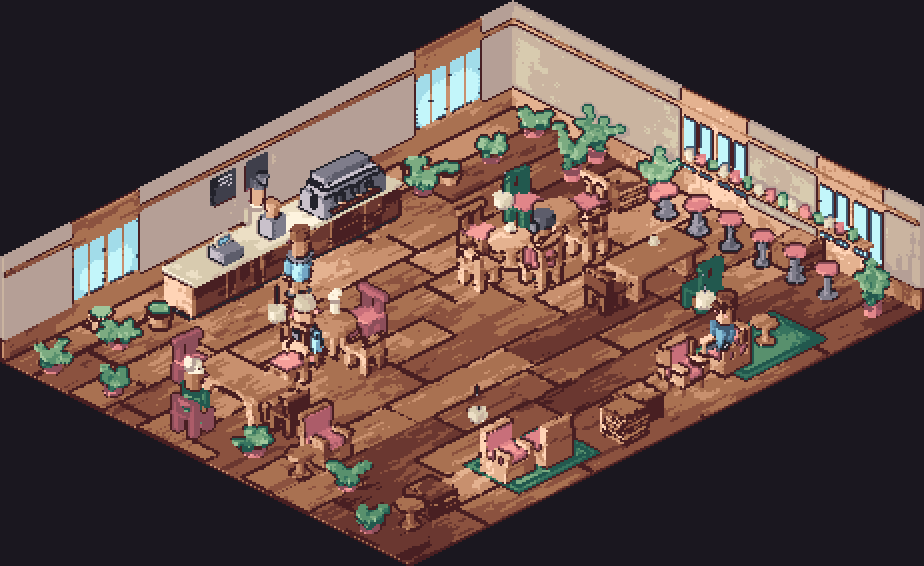
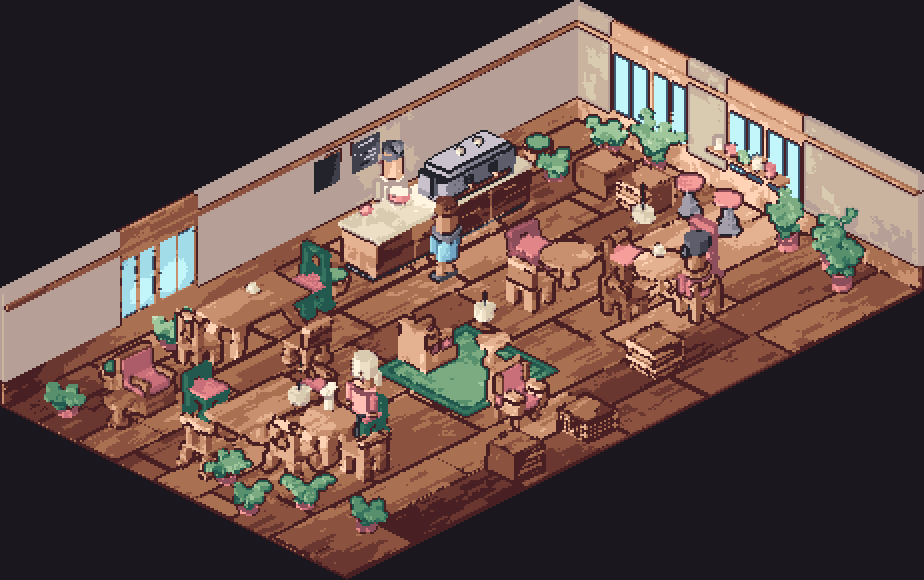
The island, and a range floor that had never fired
THE MEAN-SPREAD FLOOR WAS BLIND. Flagged in the open list as possibly
redundant; testing it meant degrading a generator on purpose. A
bookshelf emitting only N distinct meshes from eight seeds:

  distinct   mean    closest   floor .12  floor .15  pair floor
      1      0.0%     0.0%       fail       fail       fail
      2     10.8%     0.0%       fail       fail       fail
      3     14.1%     0.0%       PASS       fail       fail
      4     16.3%     0.0%       PASS       PASS       fail
      8     18.4%    15.9%       PASS       PASS       PASS

A generator that has lost HALF its range sails through both mean floors
and is caught only by the closest pair, which has been reporting 0.0%
since the second row. At 0.12 the mean did not fire until six of eight
seeds collided. Kept rather than deleted, because it catches the mode
the closest pair cannot see -- every instance differing a little and
none differing much -- but retuned to 0.15, three points under the
weakest real generator, and labelled the secondary instrument it is.

THE ISLAND. The fourth and last counter arrangement, and the only one
left that changes circulation rather than furniture: it touches no wall,
the floor becomes a ring, and every seat must be reachable the long way
round when the short way is blocked. Nothing in the island code tests
that -- `blocking()` selects by kind and the erosion grid does the rest.

It is also the only arrangement that frees every wall for glass. The
[…]

diff --git a/tools/floorplan.py b/tools/floorplan.py
@@ -356,10 +356,80 @@ def generate(seed: int = 1, tries: int = 120) -> Plan:
         # question the flood fill is already equipped to ask and the rectangle
         # comparisons are not.
         peninsula = rnd() < 0.26
+        # An island touches no wall at all. It is the last of the four and the
+        # one that asks the most of the flood fill: the floor becomes a ring,
+        # and every seat has to be reachable the long way round if the short
+        # way is blocked. Nothing here tests that -- `blocking()` selects by
+        # kind and the erosion grid does the rest, the same bargain the L run
+        # made.
+        #
+        # It is also the only arrangement that frees every wall for glass. The
+        # other three pin a counter or a back bar against one, and `_windows`
+        # is handed a blocked span to route around; an island hands it None,
+        # which is not a special case so much as the absence of the constraint
+        # the other three impose. That is a real reason cafes build them.
+        island = not peninsula and rnd() < 0.22
         horizontal = rnd() < 0.62
         zones = []
 
-        if peninsula:
+        if island:
+            span = SERVICE_DEPTH + BACKBAR_DEPTH
+            if horizontal:
+                run_len = min(run_len, w - 2 * ISLAND_CLEAR - 0.4)
+                if run_len < 3.0 or d < 2 * ISLAND_CLEAR + span + QUEUE_DEPTH:
+                    continue
+                # `iy` is bounded by the floor the island has to LEAVE, not
+                # just by the walls it has to clear. Placed anywhere in the
+                # legal band it pushed the main seating rectangle under the
+                # 4.0 x 3.5 minimum and the proposal was thrown away further
+                # down -- 7 island proposals reached the checker in sixty
+                # seeds, and the rest died on a guard the branch could have
+                # satisfied itself. Third time in this generator: the windows,
+                # then the L run's queue, now this.
+                lo = ISLAND_CLEAR + BACKBAR_DEPTH
+                hi = d - 3.3 - MIN_SEAT_RECT_D
+                if hi < lo:
+                    continue        # an island needs floor on both sides
+                ix = ISLAND_CLEAR + rnd() * max(0.1, w - run_len -
+                                                2 * ISLAND_CLEAR)
+                iy = lo + rnd() * (hi - lo)
+                run = Zone("service", ix, iy, ix + run_len,
+                           iy + SERVICE_DEPTH, 0.0)
+                back = Zone("backbar", ix, iy - BACKBAR_DEPTH,
+                            ix + run_len, iy, 0.0)
+                queue = Zone("queue", ix - 0.4, run.y1, ix + run_len + 0.4,
+                             run.y1 + QUEUE_DEPTH, 0.0)
+                main = (0.5, queue.y1 + 0.4, w - 0.5, d - 0.5)
+                side = (0.5, 0.5, w - 0.5, back.y0 - 0.6)
+            else:
+                run_len = min(run_len, d - 2 * ISLAND_CLEAR - 0.4)
+                if run_len < 3.0 or w < 2 * ISLAND_CLEAR + span + QUEUE_DEPTH:
+                    continue
+                lo = ISLAND_CLEAR + BACKBAR_DEPTH
+                hi = w - 3.3 - MIN_SEAT_RECT_W
+                if hi < lo:
+                    continue
+                iy = ISLAND_CLEAR + rnd() * max(0.1, d - run_len -
+                                                2 * ISLAND_CLEAR)
+                ix = lo + rnd() * (hi - lo)
+                run = Zone("service", ix, iy, ix + SERVICE_DEPTH,
+                           iy + run_len, 90.0)
+                back = Zone("backbar", ix - BACKBAR_DEPTH, iy, ix,
+                            iy + run_len, 90.0)
+                queue = Zone("queue", run.x1, iy - 0.4,
+                             run.x1 + QUEUE_DEPTH, iy + run_len + 0.4, 90.0)
+                main = (queue.x1 + 0.4, 0.5, w - 0.5, d - 0.5)
+                side = (0.5, 0.5, back.x0 - 0.6, d - 0.5)
+            # No wall is blocked, so the glass may go anywhere.
+            blocked_x = blocked_y = None
+            door = (w - 0.4, d - 0.4)
+            # NO `zones += [run, back, queue]` here. The shared block below
+            # does it, and the peninsula branch shipped with both -- every
+            # proposal failing its own "a cafe has one service run" rule, 0%
+            # acceptance. Writing the island from the peninsula as a template
+            # reproduced it exactly, which is what a template is for and also
+            # what it costs.
+        elif peninsula:
             run_len = min(run_len, (d if horizontal else w) - 3.2)
             if run_len < 3.0:
                 continue
@@ -425,7 +495,7 @@ def generate(seed: int = 1, tries: int = 120) -> Plan:
         # same terms as everything else. A generator that has to be taught each
         # new obstacle separately is a generator with a list; this one has a
         # rule.
-        if not peninsula and rnd() < 0.30:
+        if not peninsula and not island and rnd() < 0.30:
             arm = 1.4 + rnd() * 1.1
             near = rnd() < 0.5          # which end of the run it turns at
             if horizontal:
@@ -481,7 +551,7 @@ def generate(seed: int = 1, tries: int = 120) -> Plan:
         # and the layout was wrong: a five-tile counter on a fourteen-tile wall
         # leaves nine tiles of window, and that is exactly where a cafe puts
         # its seats.
-        if peninsula:
+        if peninsula or island:
             pass
         elif horizontal:
             # The seating floor starts past the deeper of the queue and the
@@ -498,7 +568,7 @@ def generate(seed: int = 1, tries: int = 120) -> Plan:
             side = (0.5, back.y1 + 0.6, queue.x1 - 0.1, d - 0.5)
             door = (w - 0.4, min(d - 0.5, back.y1 + 1.8))
         sx0, sy0, sx1, sy1 = main
-        if sx1 - sx0 < 4.0 or sy1 - sy0 < 3.5:
+        if sx1 - sx0 < MIN_SEAT_RECT_W or sy1 - sy0 < MIN_SEAT_RECT_D:
             continue
 
         # A window bar: stools along glass, on a stretch the run left free and
@@ -514,7 +584,7 @@ def generate(seed: int = 1, tries: int = 120) -> Plan:
             zones.append(Zone("window_bar", 0.0, max(sy0, t0 + 0.1), 1.5,
                               min(sy1, t1 - 0.1), 270.0))
             sx0 = max(sx0, 1.9)
-        if sx1 - sx0 < 4.0 or sy1 - sy0 < 3.5:
+        if sx1 - sx0 < MIN_SEAT_RECT_W or sy1 - sy0 < MIN_SEAT_RECT_D:
             continue
 
         # Split into blocks small enough to clear MAX_SEAT_BLOCK, with an
@@ -527,6 +597,7 @@ def generate(seed: int = 1, tries: int = 120) -> Plan:
             zones += _seating_blocks(*side, rnd)
 
         plan = Plan(w, d, win_x, win_y, door, zones,
+                    "island" if island else
                     "peninsula" if peninsula else
                     ("L run" if ret is not None else "wall run"))
         bad = check_plan(plan)
@@ -692,6 +763,14 @@ def _windows(span: int, blocked, rnd) -> tuple:
 # whether the generator covers ground, not whether some pair happens to be
 # close. The closest pair over forty seeds is 6% and that is not a defect.
 MIN_PLAN_SPREAD = 0.30
+
+# Floor an island must keep clear of every wall, so a body can pass behind it.
+ISLAND_CLEAR = 1.7
+
+# The smallest seating rectangle the generator will cut blocks from. Named
+# because three places used to spell it 4.0 and 3.5 inline, and the island has
+# to solve for it rather than be rejected by it.
+MIN_SEAT_RECT_W, MIN_SEAT_RECT_D = 4.0, 3.5
 
 
 def plan_labels(plan: Plan, nx: int = 24, ny: int = 18) -> list:

diff --git a/tools/art_review.py b/tools/art_review.py
@@ -372,7 +372,27 @@ def check_member_thickness(mesh, name="asset", ppu=ROOM_PX_PER_UNIT,
 # Every relaxed floor carries the reason it is relaxed, the same role
 # `ACCEPTED_BURIAL` plays for occlusion -- an unexplained loosened threshold is
 # how a ratchet turns back into decoration.
-DEFAULT_SPREAD_FLOOR = 0.12
+# The SECONDARY of the two range floors, and it was blind at 0.12. Degrading a
+# bookshelf to emit only N distinct meshes from eight seeds:
+#
+#     distinct   mean    closest    floor .12   floor .15   pair floor
+#         1      0.0%     0.0%        fail        fail        fail
+#         2     10.8%     0.0%        fail        fail        fail
+#         3     14.1%     0.0%        PASS        fail        fail
+#         4     16.3%     0.0%        PASS        PASS        fail
+#         8     18.4%    15.9%        PASS        PASS        PASS
+#
+# A generator that has lost HALF its range sails through both mean floors and
+# is caught only by the closest pair, which has been reporting 0.0% since the
+# second row. For the realistic failure mode -- a generator repeating itself --
+# the mean is strictly the weaker instrument, and at 0.12 it did not fire until
+# six of eight seeds collided.
+#
+# It is kept rather than deleted because it catches the OTHER mode, which the
+# closest pair cannot see: a generator whose every instance differs a little
+# and none differs much. Retuned to 0.15, three points under the weakest real
+# generator (bookshelf, 18%), so that it is at least able to fire.
+DEFAULT_SPREAD_FLOOR = 0.15
 
 # How different the two most similar instances of one generator must be.
 # Bracketed by measurement, as the cast floor is: the defects it was calibrated

diff --git a/tools/build_plan.py b/tools/build_plan.py
@@ -182,7 +182,12 @@ def build(plan: F.Plan) -> Layout:
     # the only reason nothing complained is that `add_seeded` found the spot
     # empty and took it. A fallback that succeeds is the hardest kind of bug to
     # see.
-    on_wall = plan.topology != "peninsula"
+    # A peninsula meets the wall end-on and an island meets none at all, so
+    # neither has a stretch of wall behind its counter. Written as the set that
+    # DOES hug a wall rather than as a list of exceptions, because the last
+    # time a new topology arrived this line said `!= "peninsula"` and quietly
+    # gave the island two chalkboards on a wall across the room.
+    on_wall = plan.topology in ("wall run", "L run")
     length = run.w if horizontal else run.d
     # What stands on the counter, and how much of the run it eats. Tallied
     # before the back bar goes in rather than after, because the back bar has
@@ -264,7 +269,10 @@ def build(plan: F.Plan) -> Layout:
                 at=at, name=f"counter#ret{ri}_{i}")
 
     # --- back bar: shelving against the wall behind the run
-    back = plan.of("backbar")
+    # Tall shelving only where there is a wall to put it against. A 1.9 stack
+    # standing free on an island is a partition between the barista and the
+    # room, which is the one thing an island exists not to be.
+    back = plan.of("backbar") if on_wall else []
     if back:
         b = back[0]
         # Shelving runs along the back bar's own long axis and sits inside it,

diff --git a/ART_CRITIQUE.md b/ART_CRITIQUE.md
@@ -2015,3 +2015,70 @@ unreliably.**
   bracketed by measurement) but the mean-spread floor of 0.12 is still the
   original guess. It has never rejected anything the closest-pair floor did not
   also reject, which is either redundancy or a floor set too low to fire.
+
+---
+
+# Seventh pass — the island, and a floor that had never fired
+
+## The mean-spread floor was blind
+
+Flagged in the open list as possibly redundant. Testing it properly meant
+degrading a generator on purpose — a bookshelf emitting only *N* distinct
+meshes from eight seeds:
+
+| distinct | mean | closest | floor 0.12 | floor 0.15 | pair floor |
+|---|---|---|---|---|---|
+| 1 | 0.0% | 0.0% | fail | fail | fail |
+| 2 | 10.8% | 0.0% | fail | fail | fail |
+| 3 | 14.1% | 0.0% | **PASS** | fail | fail |
+| 4 | 16.3% | 0.0% | **PASS** | **PASS** | fail |
+| 8 | 18.4% | 15.9% | PASS | PASS | PASS |
+
+A generator that has lost **half its range** sails through both mean floors and
+is caught only by the closest pair, which has been reporting 0.0% since the
+second row. At 0.12 the mean did not fire until six of eight seeds collided.
+
+It is kept rather than deleted, because it catches the mode the closest pair
+cannot see — every instance differing a little and none differing much — but
+retuned to 0.15, three points under the weakest real generator. A secondary
+instrument, labelled as one.
+
+## The island
+
+The fourth and last counter arrangement, and the only one left that changes
+circulation rather than furniture: it touches no wall, the floor becomes a
+ring, and every seat has to be reachable the long way round when the short way
+is blocked. Nothing in the island code tests that — `blocking()` selects by
+kind and the erosion grid does the rest, the same bargain the L run made.
+
+It is also the only arrangement that **frees every wall for glass**. The other
+three pin a counter or a back bar against one and hand `_windows` a blocked
+span to route around; an island hands it `None`. That is not a special case so
+much as the absence of a constraint, and it is a real reason cafes build them.
+
+Two bugs, both of them the same bugs a previous topology had:
+
+- **The duplicated `zones += [run, back, queue]`** — written from the peninsula
+  as a template, which reproduced the peninsula's own first-cut failure
+  exactly. Every proposal failed *a cafe has one service run*. That is what a
+  template is for and also what it costs.
+- **The proposal was uninformed, for the third time in this generator.** Placed
+  anywhere in the band its wall clearances allowed, the island pushed the main
+  seating rectangle under the 4.0 × 3.5 minimum and died on a guard further
+  down: **7 island proposals reached the checker in sixty seeds**. Bounding the
+  island's position by the floor it has to *leave* took that to 42% acceptance
+  and **5 plans of 60**. After the windows and the L run's queue, the lesson has
+  not changed: a constraint the proposal can satisfy for free should not be left
+  to the checker.
+
+The consumer needed one change, and the shape of it matters. `on_wall` had been
+written as `topology != "peninsula"`, so an island inherited two chalkboards on
+a wall across the room from the counter they price. It is now the set that
+*does* hug a wall — `("wall run", "L run")` — because a list of exceptions is
+wrong every time a fifth thing arrives and a list of members is not. Tall
+shelving is gated on the same test: a 1.9 stack standing free on an island is a
+partition between the barista and the room, which is the one thing an island
+exists not to be.
+
+60 seeds: **20 wall runs, 23 peninsulas, 12 L runs, 5 islands**, 0 errors,
+8 ms each.

diff --git a/README.md b/README.md
@@ -46,13 +46,16 @@ which is the point.
 |---|---|
 | `proof/shop.png`, `proof/shop_big.png` | the hand-authored reference room |
 | `proof/plan_room.png` | a room generated end to end from a checked plan |
-| `proof/plan_room_perimeter.png` | the same, on the other seating topology |
-| `proof/floorplans.png` | six plans, top-down, with the walkable floor shaded |
+| `proof/plan_room_lrun.png` | the same, with an L-shaped counter |
+| `proof/plan_room_peninsula.png` | the same, counter jutting in from a wall |
+| `proof/plan_room_island.png` | the same, counter free-standing, walls all glass |
+| `proof/plan_room_stools.png` | a window bar with people perched at it |
+| `proof/floorplans.png` | twelve plans, top-down, walkable floor shaded, topology labelled |
 | `proof/generators.png` | every generator, eight seeds each, spread measured |
 | `proof/characters.png` | roster, eight directions, and generated extras |
 | `ART_CRITIQUE.md` | what was rejected, why, and what became a check |
 
-The reference room is still the better room. It holds six passes of judgement
+The reference room is still the better room. It holds seven passes of judgement
 that no rule encodes — why the queue runs across the view rather than into it,
 why the crates go against the far walls. What the generator has is that it can
 make a different cafe, and that every one it makes clears twenty-three checks.
